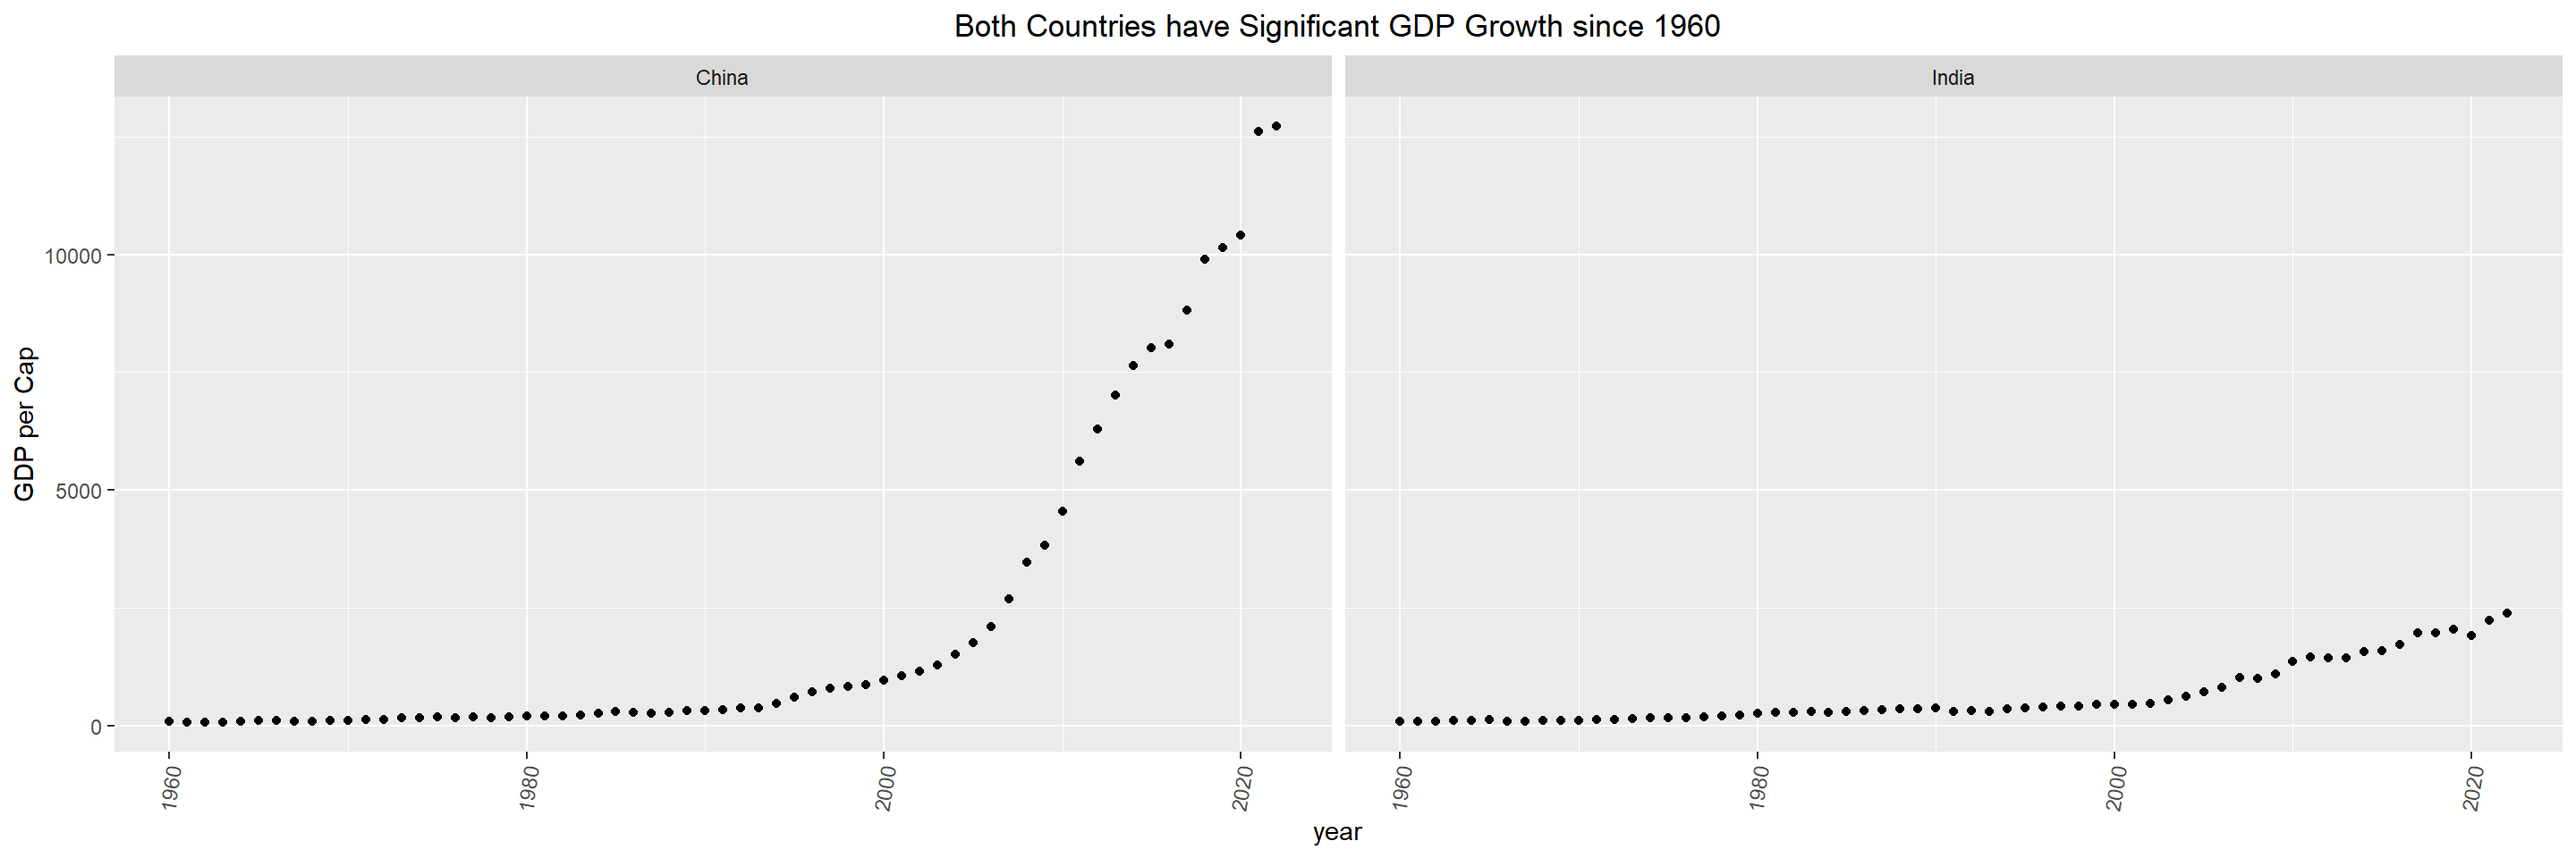
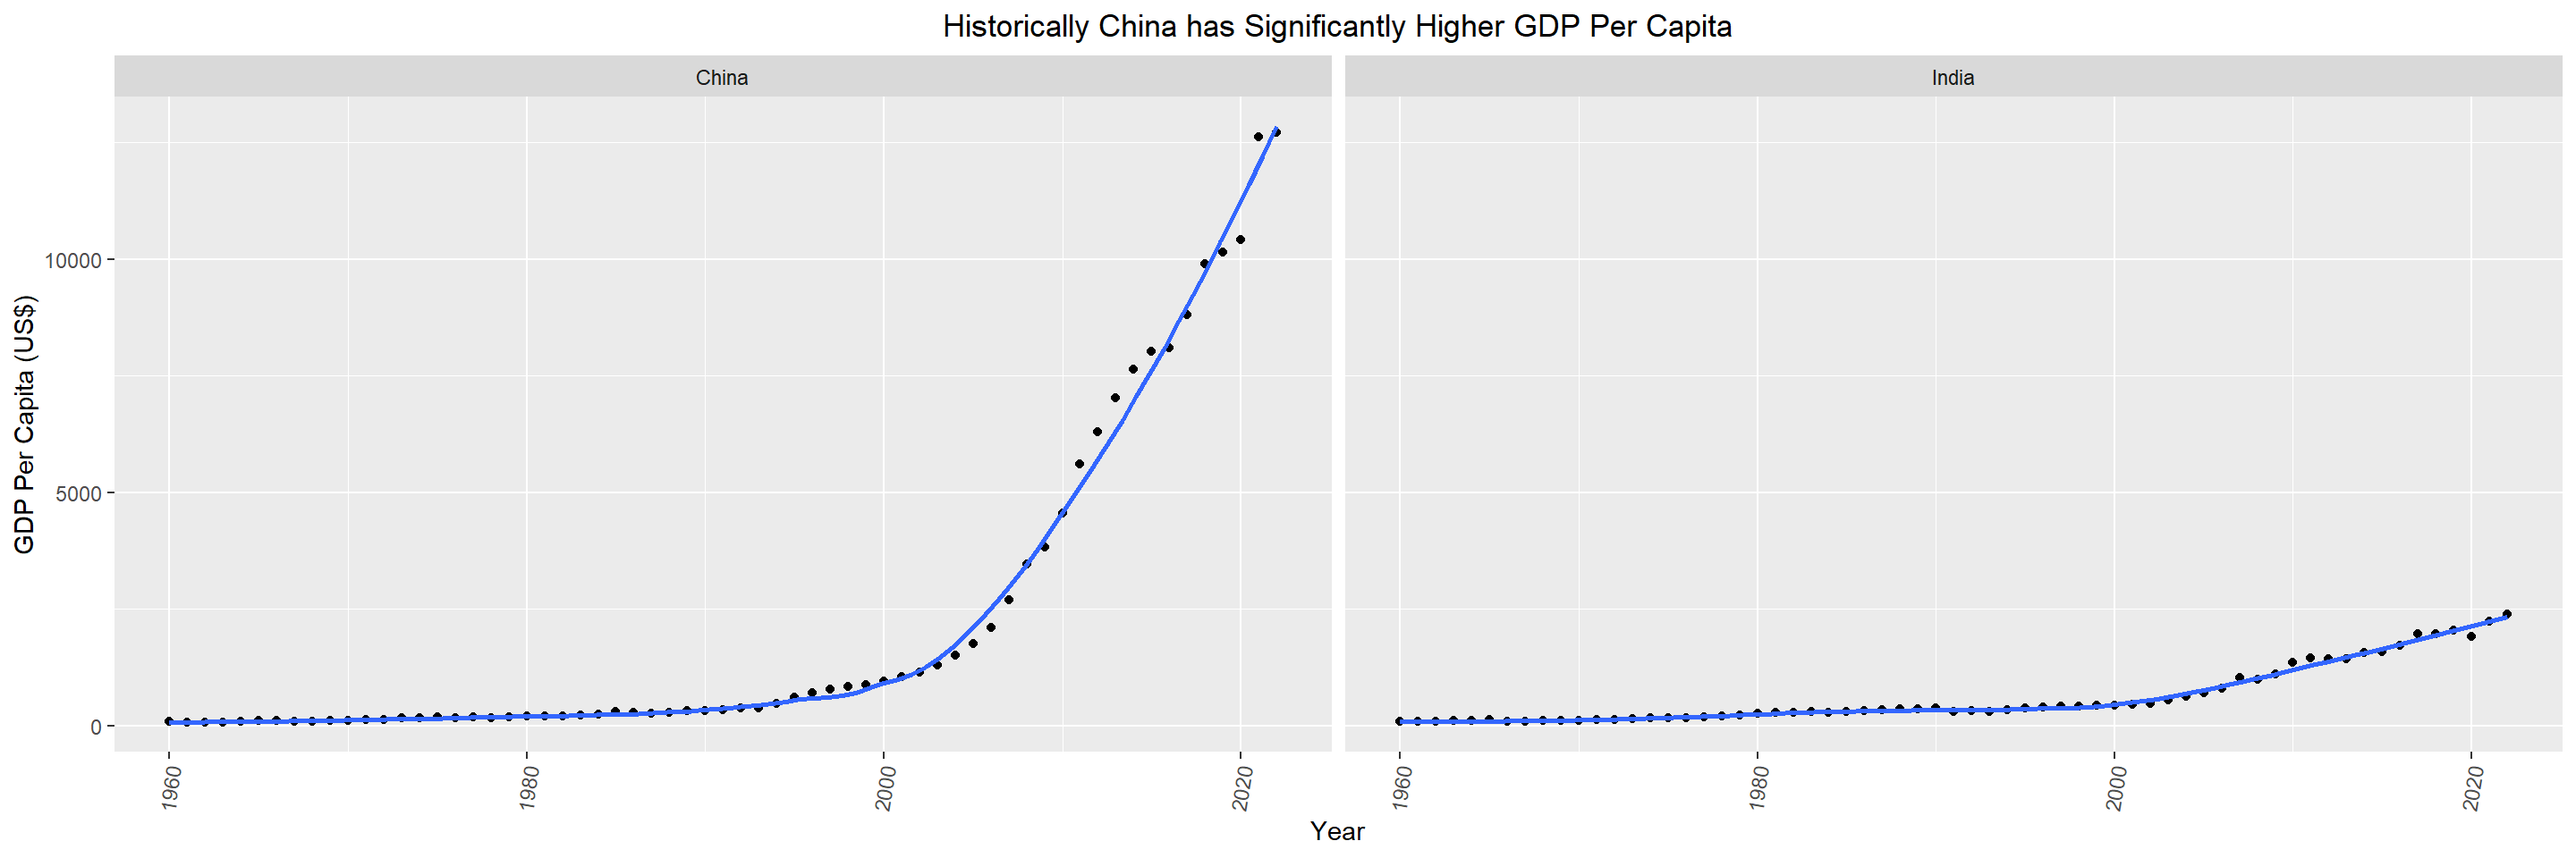
graphs for GDP

diff --git a/docs/results.html b/docs/results.html
@@ -265,7 +265,7 @@ The following object is masked from 'package:readr':
 <div class="sourceCode cell-code" id="cb10"><pre class="sourceCode r code-with-copy"><code class="sourceCode r"><span id="cb10-1"><a href="#cb10-1" aria-hidden="true" tabindex="-1"></a><span class="fu">library</span>(dplyr)</span>
 <span id="cb10-2"><a href="#cb10-2" aria-hidden="true" tabindex="-1"></a></span>
 <span id="cb10-3"><a href="#cb10-3" aria-hidden="true" tabindex="-1"></a>GDP_values <span class="ot">=</span> <span class="fu">read.csv</span>(<span class="st">"GDP_values.csv"</span>)</span>
-<span id="cb10-4"><a href="#cb10-4" aria-hidden="true" tabindex="-1"></a>GDP_vals <span class="ot">=</span> GDP_values[((GDP_values<span class="sc">$</span><span class="st">`</span><span class="at">Country.Name</span><span class="st">`</span> <span class="sc">==</span> <span class="st">'China'</span>)<span class="sc">|</span> (GDP_values<span class="sc">$</span><span class="st">`</span><span class="at">Country.Name</span><span class="st">`</span> <span class="sc">==</span> <span class="st">'India'</span>)) , ]</span>
+<span id="cb10-4"><a href="#cb10-4" aria-hidden="true" tabindex="-1"></a>GDP_vals <span class="ot">=</span> GDP_values[((GDP_values<span class="sc">$</span><span class="st">`</span><span class="at">Country.Name</span><span class="st">`</span> <span class="sc">==</span> <span class="st">'China'</span>)<span class="sc">|</span> (GDP_values<span class="sc">$</span><span class="st">`</span><span class="at">Country.Name</span><span class="st">`</span> <span class="sc">==</span> <span class="st">'India'</span>)), ]</span>
 <span id="cb10-5"><a href="#cb10-5" aria-hidden="true" tabindex="-1"></a>L <span class="ot">=</span> <span class="fu">pivot_longer</span>(GDP_vals,<span class="at">cols=</span><span class="st">'X1960'</span><span class="sc">:</span><span class="st">'X2022'</span>, <span class="at">names_to =</span> <span class="st">"year"</span>, <span class="at">values_to =</span> <span class="st">"GDP per Cap"</span>)</span>
 <span id="cb10-6"><a href="#cb10-6" aria-hidden="true" tabindex="-1"></a>L<span class="sc">$</span>year<span class="ot">&lt;-</span><span class="fu">gsub</span>(<span class="st">"X"</span>,<span class="st">""</span>,<span class="fu">as.character</span>(L<span class="sc">$</span>year))</span>
 <span id="cb10-7"><a href="#cb10-7" aria-hidden="true" tabindex="-1"></a>L<span class="sc">$</span>year <span class="ot">&lt;-</span> <span class="fu">as.integer</span>(L<span class="sc">$</span>year)</span>
@@ -275,8 +275,8 @@ The following object is masked from 'package:readr':
 <span id="cb10-11"><a href="#cb10-11" aria-hidden="true" tabindex="-1"></a>GDP_vals <span class="ot">=</span> GDP_vals <span class="sc">%&gt;%</span> <span class="fu">rename</span>(<span class="at">Country =</span> <span class="st">`</span><span class="at">Country.Name</span><span class="st">`</span>)</span>
 <span id="cb10-12"><a href="#cb10-12" aria-hidden="true" tabindex="-1"></a></span>
 <span id="cb10-13"><a href="#cb10-13" aria-hidden="true" tabindex="-1"></a>GDP_growth <span class="ot">=</span> <span class="fu">read.csv</span>(<span class="st">"GDP.csv"</span>)</span>
-<span id="cb10-14"><a href="#cb10-14" aria-hidden="true" tabindex="-1"></a>GDP_growth <span class="ot">=</span> GDP_growth[((GDP_growth<span class="sc">$</span><span class="st">`</span><span class="at">Country.Name</span><span class="st">`</span> <span class="sc">==</span> <span class="st">'China'</span>)<span class="sc">|</span> (GDP_growth<span class="sc">$</span><span class="st">`</span><span class="at">Country.Name</span><span class="st">`</span> <span class="sc">==</span> <span class="st">'India'</span>)) , ]</span>
-<span id="cb10-15"><a href="#cb10-15" aria-hidden="true" tabindex="-1"></a>L <span class="ot">=</span> <span class="fu">pivot_longer</span>(GDP_growth,<span class="at">cols=</span><span class="st">'X1960'</span><span class="sc">:</span><span class="st">'X2022'</span>, <span class="at">names_to =</span> <span class="st">"year"</span>, <span class="at">values_to =</span> <span class="st">"GDP Growth %"</span>)</span>
+<span id="cb10-14"><a href="#cb10-14" aria-hidden="true" tabindex="-1"></a>GDP_growth <span class="ot">=</span> GDP_growth[((GDP_growth<span class="sc">$</span><span class="st">`</span><span class="at">Country.Name</span><span class="st">`</span> <span class="sc">==</span> <span class="st">'China'</span>)<span class="sc">|</span> (GDP_growth<span class="sc">$</span><span class="st">`</span><span class="at">Country.Name</span><span class="st">`</span> <span class="sc">==</span> <span class="st">'India'</span>)) <span class="sc">|</span>  (GDP_growth<span class="sc">$</span><span class="st">`</span><span class="at">Country.Name</span><span class="st">`</span> <span class="sc">==</span> <span class="st">'United States'</span>), ]</span>
+<span id="cb10-15"><a href="#cb10-15" aria-hidden="true" tabindex="-1"></a>L <span class="ot">=</span> <span class="fu">pivot_longer</span>(GDP_growth,<span class="at">cols=</span><span class="st">'X1961'</span><span class="sc">:</span><span class="st">'X2022'</span>, <span class="at">names_to =</span> <span class="st">"year"</span>, <span class="at">values_to =</span> <span class="st">"GDP Growth %"</span>)</span>
 <span id="cb10-16"><a href="#cb10-16" aria-hidden="true" tabindex="-1"></a></span>
 <span id="cb10-17"><a href="#cb10-17" aria-hidden="true" tabindex="-1"></a>L<span class="sc">$</span>year<span class="ot">&lt;-</span><span class="fu">gsub</span>(<span class="st">"X"</span>,<span class="st">""</span>,<span class="fu">as.character</span>(L<span class="sc">$</span>year))</span>
 <span id="cb10-18"><a href="#cb10-18" aria-hidden="true" tabindex="-1"></a>L<span class="sc">$</span>year <span class="ot">&lt;-</span> <span class="fu">as.integer</span>(L<span class="sc">$</span>year)</span>
@@ -290,15 +290,42 @@ The following object is masked from 'package:readr':
 <summary>Code</summary>
 <div class="sourceCode cell-code" id="cb11"><pre class="sourceCode r code-with-copy"><code class="sourceCode r"><span id="cb11-1"><a href="#cb11-1" aria-hidden="true" tabindex="-1"></a><span class="fu">ggplot</span>(GDP_vals, <span class="fu">aes</span>(year,<span class="st">`</span><span class="at">GDP per Cap</span><span class="st">`</span>)) <span class="sc">+</span></span>
 <span id="cb11-2"><a href="#cb11-2" aria-hidden="true" tabindex="-1"></a>  <span class="fu">geom_point</span>(<span class="at">color =</span> <span class="st">"Black"</span>) <span class="sc">+</span></span>
-<span id="cb11-3"><a href="#cb11-3" aria-hidden="true" tabindex="-1"></a>  <span class="fu">facet_wrap</span>(Country<span class="sc">~</span>.)<span class="sc">+</span></span>
-<span id="cb11-4"><a href="#cb11-4" aria-hidden="true" tabindex="-1"></a>  <span class="fu">theme</span>(<span class="at">axis.text.x =</span> <span class="fu">element_text</span>(<span class="at">angle =</span> <span class="dv">80</span>, <span class="at">vjust=</span><span class="fl">0.5</span>))<span class="sc">+</span></span>
-<span id="cb11-5"><a href="#cb11-5" aria-hidden="true" tabindex="-1"></a>  <span class="fu">ggtitle</span>(<span class="st">"Both Countries have Significant GDP Growth since 1960"</span>)<span class="sc">+</span> </span>
-<span id="cb11-6"><a href="#cb11-6" aria-hidden="true" tabindex="-1"></a>  <span class="fu">theme</span>(<span class="at">plot.title =</span> <span class="fu">element_text</span>(<span class="at">hjust =</span> <span class="fl">0.5</span>))</span></code><button title="Copy to Clipboard" class="code-copy-button"><i class="bi"></i></button></pre></div>
+<span id="cb11-3"><a href="#cb11-3" aria-hidden="true" tabindex="-1"></a>  <span class="fu">stat_smooth</span>(<span class="at">method =</span> <span class="st">"loess"</span>, <span class="at">se =</span> <span class="cn">FALSE</span>, <span class="at">span =</span> <span class="fl">0.5</span>)<span class="sc">+</span></span>
+<span id="cb11-4"><a href="#cb11-4" aria-hidden="true" tabindex="-1"></a>  <span class="fu">facet_wrap</span>(Country<span class="sc">~</span>.)<span class="sc">+</span></span>
+<span id="cb11-5"><a href="#cb11-5" aria-hidden="true" tabindex="-1"></a>  <span class="fu">ylab</span>(<span class="st">"GDP Per Capita (US$)"</span>)<span class="sc">+</span></span>
+<span id="cb11-6"><a href="#cb11-6" aria-hidden="true" tabindex="-1"></a>  <span class="fu">xlab</span>(<span class="st">"Year"</span>)<span class="sc">+</span> </span>
+<span id="cb11-7"><a href="#cb11-7" aria-hidden="true" tabindex="-1"></a>  <span class="fu">theme</span>(<span class="at">axis.text.x =</span> <span class="fu">element_text</span>(<span class="at">angle =</span> <span class="dv">80</span>, <span class="at">vjust=</span><span class="fl">0.5</span>))<span class="sc">+</span></span>
+<span id="cb11-8"><a href="#cb11-8" aria-hidden="true" tabindex="-1"></a>  <span class="fu">ggtitle</span>(<span class="st">"Historically China has Significantly Higher GDP Per Capita"</span>)<span class="sc">+</span> </span>
+<span id="cb11-9"><a href="#cb11-9" aria-hidden="true" tabindex="-1"></a>  <span class="fu">theme</span>(<span class="at">plot.title =</span> <span class="fu">element_text</span>(<span class="at">hjust =</span> <span class="fl">0.5</span>))</span></code><button title="Copy to Clipboard" class="code-copy-button"><i class="bi"></i></button></pre></div>
 </details>
+<div class="cell-output cell-output-stderr">
+<pre><code>`geom_smooth()` using formula = 'y ~ x'</code></pre>
+</div>
 <div class="cell-output-display">
 <p><img src="results_files/figure-html/unnamed-chunk-2-1.png" class="img-fluid" width="1440"></p>
 </div>
 </div>
+<p>Gross domestic product (GDP) per capita is a metric that describes a country’s economic output per person, so . From this scatterplot with fitted line, we see that while both China and India have had growing GDP per capita levels since 1960, since 2000 China’s has skyrocketed compared to India’s. As of 2020, the difference between their GDP per Capita is over $10000. When looking at GDP growth without considering other factors, it appears that if current trends continue, it will take many years for India’s GDP per Capita to surpass China’s.</p>
+<div class="cell">
+<details>
+<summary>Code</summary>
+<div class="sourceCode cell-code" id="cb13"><pre class="sourceCode r code-with-copy"><code class="sourceCode r"><span id="cb13-1"><a href="#cb13-1" aria-hidden="true" tabindex="-1"></a><span class="fu">ggplot</span>(GDP_growth, <span class="fu">aes</span>(year,Country, <span class="at">fill =</span> <span class="st">`</span><span class="at">GDP Growth %</span><span class="st">`</span>)) <span class="sc">+</span></span>
+<span id="cb13-2"><a href="#cb13-2" aria-hidden="true" tabindex="-1"></a>  <span class="fu">geom_tile</span>(<span class="at">color =</span> <span class="st">"Black"</span>) <span class="sc">+</span></span>
+<span id="cb13-3"><a href="#cb13-3" aria-hidden="true" tabindex="-1"></a>  <span class="fu">theme</span>(<span class="at">axis.text.x =</span> <span class="fu">element_text</span>(<span class="at">angle =</span> <span class="dv">80</span>, <span class="at">vjust=</span><span class="fl">0.5</span>))<span class="sc">+</span></span>
+<span id="cb13-4"><a href="#cb13-4" aria-hidden="true" tabindex="-1"></a>  <span class="fu">ggtitle</span>(<span class="st">"China's GDP has Generally Grown Faster than India's since 1960"</span>)<span class="sc">+</span> </span>
+<span id="cb13-5"><a href="#cb13-5" aria-hidden="true" tabindex="-1"></a>  <span class="fu">scale_fill_gradient2</span>(</span>
+<span id="cb13-6"><a href="#cb13-6" aria-hidden="true" tabindex="-1"></a>    <span class="at">low =</span> <span class="fu">muted</span>(<span class="st">"orange"</span>),</span>
+<span id="cb13-7"><a href="#cb13-7" aria-hidden="true" tabindex="-1"></a>    <span class="at">mid =</span> <span class="st">"white"</span>,</span>
+<span id="cb13-8"><a href="#cb13-8" aria-hidden="true" tabindex="-1"></a>    <span class="at">high =</span> <span class="fu">muted</span>(<span class="st">"green"</span>),</span>
+<span id="cb13-9"><a href="#cb13-9" aria-hidden="true" tabindex="-1"></a>    <span class="at">midpoint =</span> <span class="dv">0</span></span>
+<span id="cb13-10"><a href="#cb13-10" aria-hidden="true" tabindex="-1"></a>  )<span class="sc">+</span></span>
+<span id="cb13-11"><a href="#cb13-11" aria-hidden="true" tabindex="-1"></a>  <span class="fu">theme</span>(<span class="at">plot.title =</span> <span class="fu">element_text</span>(<span class="at">hjust =</span> <span class="fl">0.5</span>))</span></code><button title="Copy to Clipboard" class="code-copy-button"><i class="bi"></i></button></pre></div>
+</details>
+<div class="cell-output-display">
+<p><img src="results_files/figure-html/unnamed-chunk-3-1.png" class="img-fluid" width="1440"></p>
+</div>
+</div>
+<p>We use the United States’ GDP growth as a benchmark for comparison because it is considered the largest economy in the world because it has the highest nominal GDP out of any country.</p>
 <section id="what-is-the-reasoning-for-these-differences" class="level3" data-number="3.1.1">
 <h3 data-number="3.1.1" class="anchored" data-anchor-id="what-is-the-reasoning-for-these-differences"><span class="header-section-number">3.1.1</span> What is the reasoning for these differences?</h3>
 </section>

diff --git a/docs/index.html b/docs/index.html
@@ -8,7 +8,7 @@
 
 <meta name="author" content="Varsha Appaji (vla2116)">
 <meta name="author" content="Kevin Xu (kxx2001)">
-<meta name="dcterms.date" content="2023-12-09">
+<meta name="dcterms.date" content="2023-12-10">
 
 <title>Comparing Economic Growth of China and India</title>
 <style>
@@ -171,7 +171,7 @@ ul.task-list li input[type="checkbox"] {
     <div>
     <div class="quarto-title-meta-heading">Published</div>
     <div class="quarto-title-meta-contents">
-      <p class="date">December 9, 2023</p>
+      <p class="date">December 10, 2023</p>
     </div>
   </div>
   
